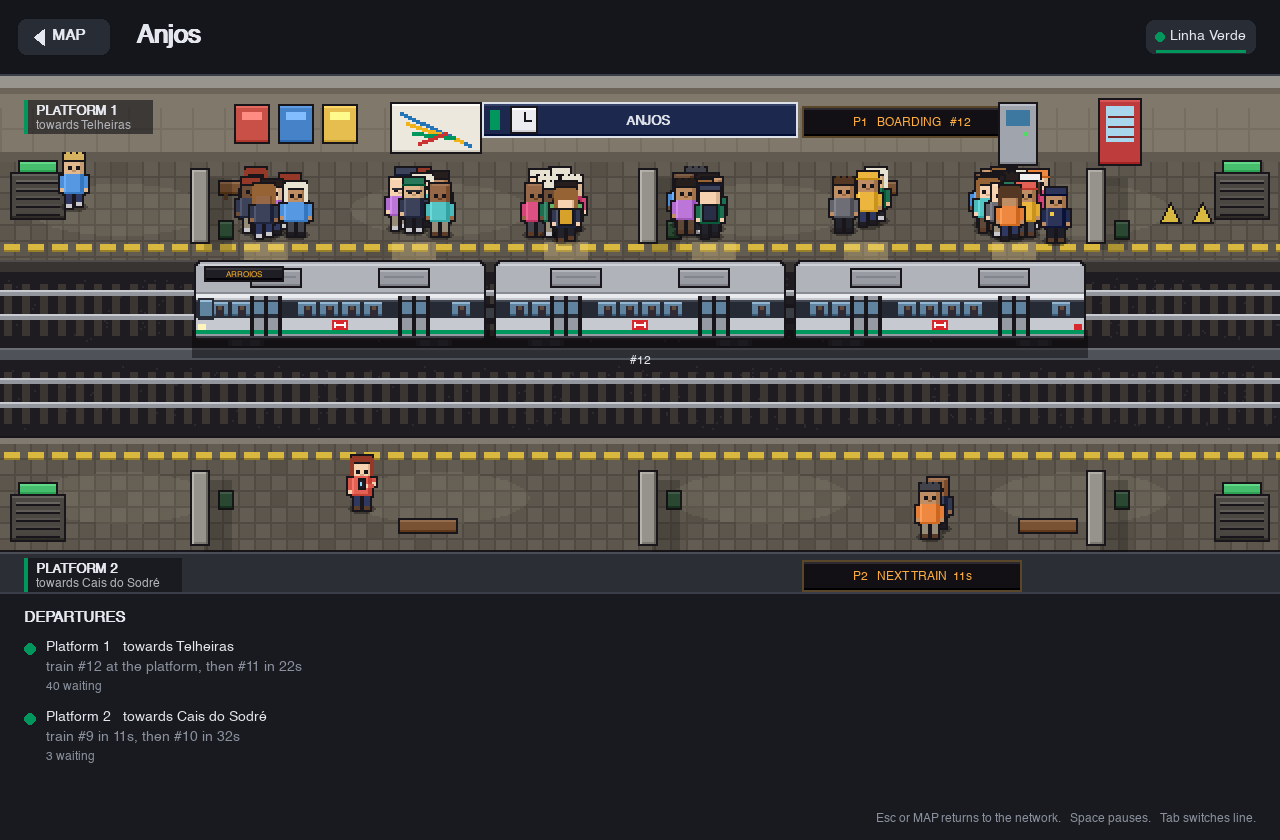
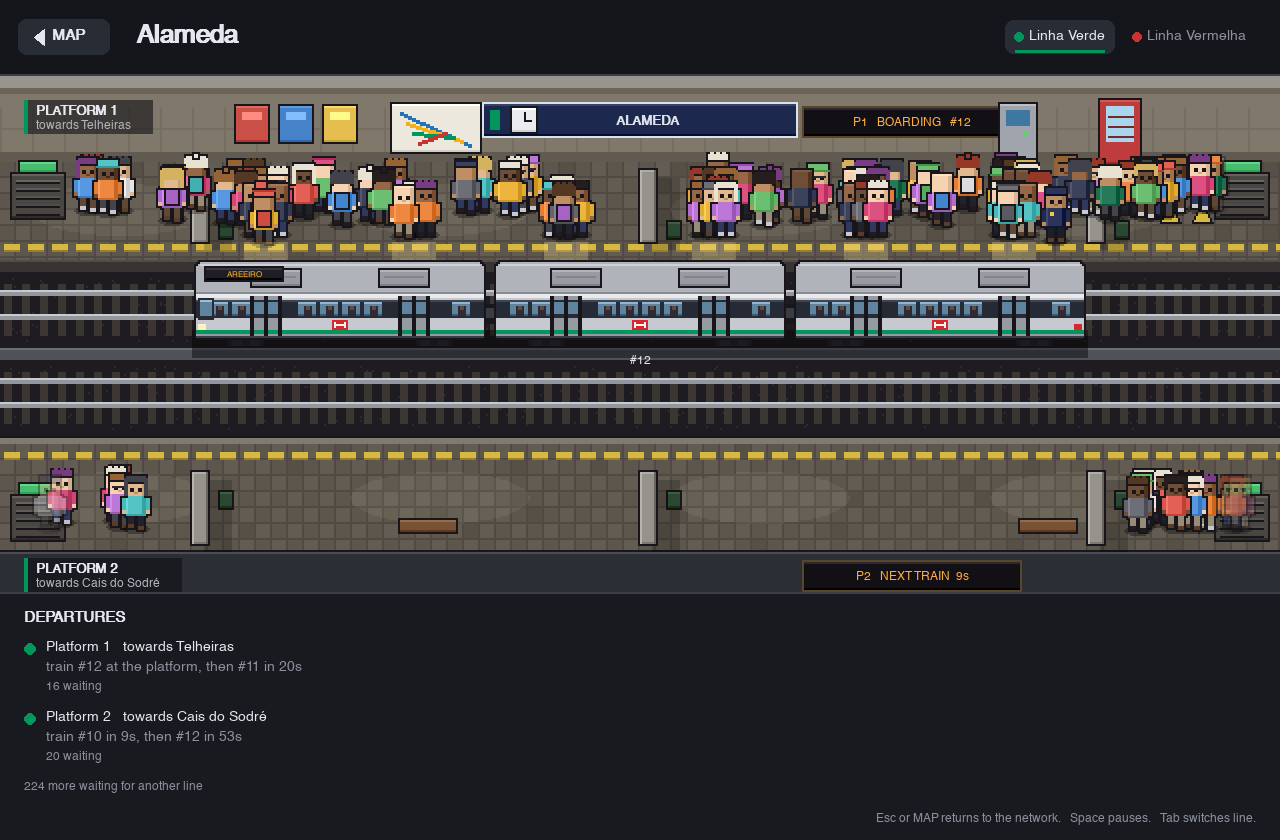
Refresh every screenshot, and let a trainload come up the stairs as a stream
The station shot was a quiet single-line station with a near-empty second
platform, which showed neither the line tabs nor a busy platform. It is now
Alameda, with both platforms populated and a train boarding, chosen by
counting people actually out on the platform rather than queued.

Getting there turned up something worth fixing. When a train unloads, every
passenger changing lines joins the other platform on the same frame, so they
all came up out of the two stairwells at once and stood in two clumps. Each
arrival now waits a short random moment before emerging, so a trainload of
changers flows up the stairs instead of appearing together.

All five screenshots plus the logo and icon regenerated from current code.

diff --git a/tools/screenshots.py b/tools/screenshots.py
@@ -44,16 +44,31 @@ def main() -> None:
     MapScene(world, sim).draw(screen, False, 1.0)
     pygame.image.save(screen, os.path.join(DOCS, "map.png"))
 
-    # A station with a train in, doors open.
-    view = StationView(world, sim, "Anjos")
-    for _ in range(int(400 / FRAME)):
+    # An interchange, so the line tabs show, caught with a train at the
+    # platform, its doors open and people waiting on both sides.
+    view = StationView(world, sim, "Alameda")
+    best = None
+    for _ in range(int(600 / FRAME)):
         sim.update(FRAME)
         view.update(FRAME, sim.drain_events())
-        if any(m.line == view.line.name and m.current_station == view.name and 1.0 < m.cooldown < 2.6
-               for m in sim.metros):
+        train = next((m for m in sim.metros if m.line == view.line.name
+                      and m.current_station == view.name and 1.0 < m.cooldown < 2.6), None)
+        if train is None:
+            continue
+        # Count who is actually out on the platform, not who is queued: people
+        # still coming up the stairs are mid-fade and look like ghosts.
+        out = {-1: 0, 1: 0}
+        for passenger, side in view._crowd():
+            state = view.people.get(passenger.id)
+            if state is not None and state["alpha"] == 255 and state["act"] != "arriving":
+                out[side] += 1
+        both = min(out.values())
+        if best is None or both > best:
+            best = both
+            view.draw(screen, False, 1.0)
+            pygame.image.save(screen, os.path.join(DOCS, "station.png"))
+        if both >= 12:
             break
-    view.draw(screen, False, 1.0)
-    pygame.image.save(screen, os.path.join(DOCS, "station.png"))
 
     # Inside the busiest train, between stops.
     train = max(sim.metros, key=lambda m: len(m.riders))

diff --git a/src/station_view.py b/src/station_view.py
@@ -21,7 +21,7 @@ from src.sprites import draw_character, shade
 from src.station_layout import (
     IH, IW,
     BOARD, BUTTON, BUTTON_HOVER, DOOR_CLOSE_SECONDS, DOOR_OPEN_SECONDS, DOOR_W,
-    ENTER_AFTER, ENTER_SECONDS, ENTRY_FADE, EXIT_SECONDS,
+    ENTER_AFTER, ENTER_SECONDS, ENTRY_FADE, ENTRY_SPREAD, EXIT_SECONDS,
     FRONT_CAP, HEADER_BG, HEADER_H,
     LEAVE_UNTIL, LED, PIT_A, PIT_B, PIX, PLATFORM_1, PLATFORM_2, ROOF_H, SIDE_H,
     SIGN_EDGE, STEP_GAP, TRAIN_LEN, VIEW, WALK_SPEED, WALL_FACE, WANDER_RANGE,
@@ -334,7 +334,10 @@ class StationView:
                     state["pos"] = (stairs.centerx + jitter.uniform(-5, 5), stairs.centery + 6)
                     state["act"] = "arriving"
                     state["until"] = self.time + 60.0
-                    state["entered"] = self.time
+                    # When a train unloads, everyone changing lines turns up at
+                    # once. Stagger them so they come up the stairs as a stream
+                    # instead of appearing as one clump in the stairwell.
+                    state["entered"] = self.time + jitter.uniform(0.0, ENTRY_SPREAD)
                     state["alpha"] = 0
                 self.people[passenger.id] = state
 
@@ -349,6 +352,8 @@ class StationView:
             elif not soon[direction] and (state["act"] == "edge" or self.time >= state["until"]):
                 self._choose_activity(passenger, direction, state)
 
+            if self.time < state.get("entered", 0.0):
+                continue        # still on their way down the stairs, not out yet
             x, y = state["pos"]
             tx, ty = state["target"]
             dx, dy = tx - x, ty - y

diff --git a/tests/test_station_view.py b/tests/test_station_view.py
@@ -157,7 +157,11 @@ def test_platform_crowd_has_a_life_and_lines_up_for_the_train(world, sim):
                 assert st["pose"] == "phone"
         for direction in (-1, 1):
             if view._train_soon(direction):
-                mine = [view.people[p.id] for (p, d) in view._crowd() if d == direction and p.id in view.people]
+                # People still on their way down the stairs are not out on the
+                # platform yet, so they are invisible and have no bearing.
+                mine = [view.people[p.id] for (p, d) in view._crowd()
+                        if d == direction and p.id in view.people
+                        and view.people[p.id]["alpha"] > 0]
                 assert all(st["act"] == "edge" for st in mine)
                 # Once there, they face the track: platform 1 looks down, platform 2 up.
                 for st in mine:

diff --git a/src/station_layout.py b/src/station_layout.py
@@ -84,6 +84,7 @@ WANDER_SPEED = 13.0
 WANDER_RANGE = (44.0, 9.0)
 CROWD_LIMIT = 44         # people drawn standing on each platform at once
 ENTRY_FADE = 0.45        # seconds to come up out of the stairwell
+ENTRY_SPREAD = 1.8       # a trainload of changers comes up as a stream, not a clump
 LED = (255, 172, 64)
 LED_BG = (18, 16, 20)
 EXIT_GREEN = (70, 190, 110)
